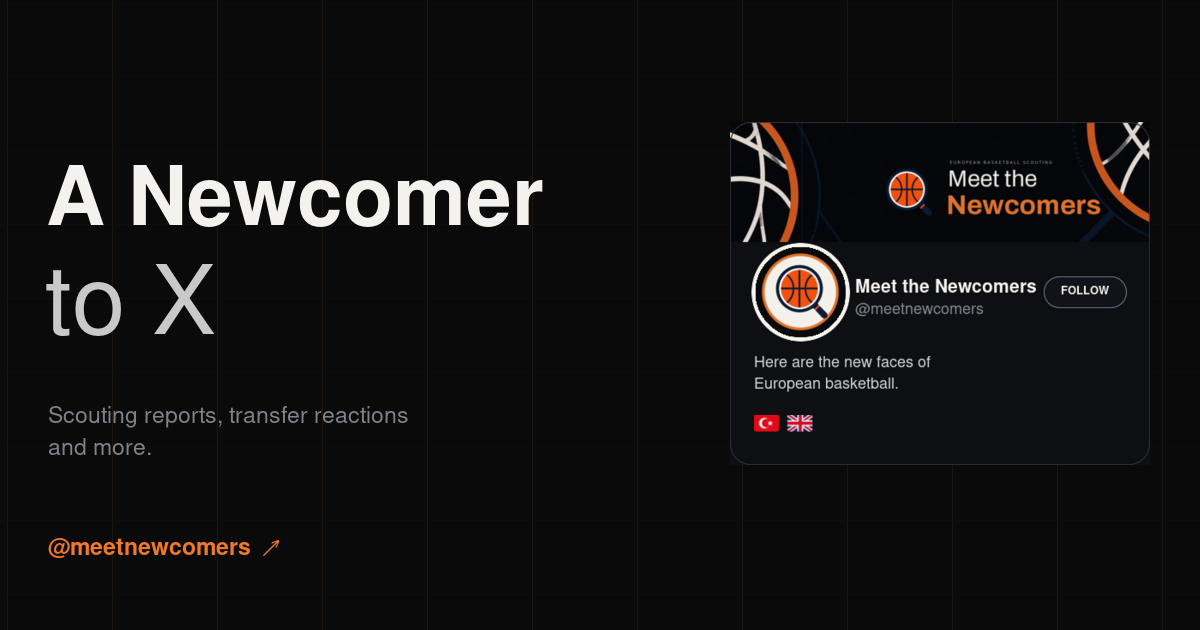
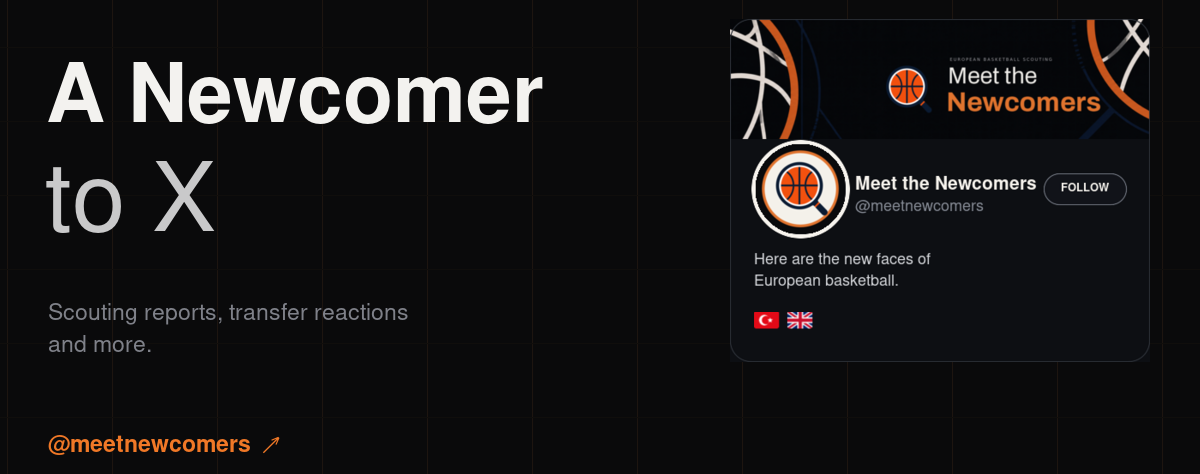
Hero spotlight: baslik slayti kendi icerigine gore yukseklik aliyor (kesilme regresyonu duzeltildi), mobilde parmakla kaydirma eklendi, gorsel slaytlarin min-height'i dusuruldu (gercek en-boy orani baskin), X promosyon gorselleri sikica kirpildi
Baslik slayti onceden paylasilan sabit kutuya bagimliydi; oyuncu OG'leri icin min-height 320->180 dusurulunce baslik metni kesiliyordu. Artik her slayt tipi (baslik vs gorsel) kendi ihtiyacina gore yukseklik hesapliyor.

diff --git a/components/HeroSpotlight.jsx b/components/HeroSpotlight.jsx
@@ -20,26 +20,8 @@ export default function HeroSpotlight({ players, children }) {
   const { league } = useLeague();
   const [step, setStep] = useState(0);
   const stageRef = useRef(null);
+  const slideRefs = useRef([]);
   const [stageHeight, setStageHeight] = useState(null);
-
-  // iOS Safari, flex öğesi içindeki CSS aspect-ratio'yu masaüstü tarayıcılardan
-  // farklı hesaplıyor ve kutu devasa büyüyüp içerik üstten/alttan kesiliyordu.
-  // Bunun yerine gerçek render genişliğini ölçüp yüksekliği JS ile piksel
-  // cinsinden sabitliyoruz — tüm tarayıcılarda garanti aynı sonucu verir.
-  useEffect(() => {
-    const el = stageRef.current;
-    if (!el) return;
-    function measure() {
-      const width = el.getBoundingClientRect().width;
-      if (!width) return;
-      const h = Math.max(320, Math.min(520, width * (630 / 1200)));
-      setStageHeight(h);
-    }
-    measure();
-    const ro = new ResizeObserver(measure);
-    ro.observe(el);
-    return () => ro.disconnect();
-  }, []);
 
   const latestPlayers = useMemo(
     () => players.filter((p) => p.lig === league).slice(0, 2),
@@ -63,19 +45,69 @@ export default function HeroSpotlight({ players, children }) {
 
   const step0 = step % slides.length;
 
+  // iOS Safari, flex öğesi içindeki CSS aspect-ratio'yu masaüstü tarayıcılardan
+  // farklı hesaplıyor ve kutu devasa büyüyüp içerik üstten/alttan kesiliyordu.
+  // Bunun yerine gerçek render genişliğini ölçüp yüksekliği JS ile piksel
+  // cinsinden sabitliyoruz — tüm tarayıcılarda garanti aynı sonucu verir.
+  // Başlık slaytı OG oranına değil kendi içeriğine göre yükseklik alır —
+  // aksi halde görsel slaytlar için düşürülen min-height, başlık metnini keser.
+  useEffect(() => {
+    function measure() {
+      const stageWidth = stageRef.current?.getBoundingClientRect().width || 0;
+      const currentType = slides[step0]?.type;
+      if (currentType === 'title') {
+        const activeEl = slideRefs.current[step0];
+        const contentHeight = activeEl ? activeEl.scrollHeight : 200;
+        setStageHeight(Math.max(contentHeight, 180));
+      } else {
+        const h = Math.max(180, Math.min(520, stageWidth * (630 / 1200)));
+        setStageHeight(h);
+      }
+    }
+    measure();
+    const ro = new ResizeObserver(measure);
+    if (stageRef.current) ro.observe(stageRef.current);
+    return () => ro.disconnect();
+  }, [step0, slides]);
+
   function go(dir) {
     setStep((s) => (s + dir + slides.length) % slides.length);
   }
 
+  const touchStartX = useRef(null);
+
+  function handleTouchStart(e) {
+    touchStartX.current = e.touches[0].clientX;
+  }
+  function handleTouchEnd(e) {
+    if (touchStartX.current === null) return;
+    const delta = e.changedTouches[0].clientX - touchStartX.current;
+    if (Math.abs(delta) > 40) {
+      go(delta < 0 ? 1 : -1);
+    }
+    touchStartX.current = null;
+  }
+
   return (
     <div className="hero__row">
-      <div className="hero__stage" ref={stageRef} style={stageHeight ? { height: stageHeight } : undefined}>
+      <div
+        className="hero__stage"
+        ref={stageRef}
+        style={stageHeight ? { height: stageHeight } : undefined}
+        onTouchStart={handleTouchStart}
+        onTouchEnd={handleTouchEnd}
+      >
         <div
           className="hero__track"
           style={{ width: `${slides.length * 100}%`, transform: `translateX(-${(100 / slides.length) * step0}%)` }}
         >
-          {slides.map((slide) => (
-            <div className="hero__slide" key={slide.key} style={{ width: `${100 / slides.length}%` }}>
+          {slides.map((slide, i) => (
+            <div
+              className="hero__slide"
+              key={slide.key}
+              ref={(el) => (slideRefs.current[i] = el)}
+              style={{ width: `${100 / slides.length}%` }}
+            >
               {slide.type === 'title' && (
                 <div className="hero__slide-default">{children}</div>
               )}
@@ -115,7 +147,12 @@ export default function HeroSpotlight({ players, children }) {
         </div>
         <div className="hero__dots">
           {slides.map((slide, i) => (
-            <span key={slide.key} className={`hero__dot${i === step0 ? ' active' : ''}`} />
+            <button
+              key={slide.key}
+              className={`hero__dot${i === step0 ? ' active' : ''}`}
+              onClick={() => setStep(i)}
+              aria-label={`slide ${i + 1}`}
+            />
           ))}
         </div>
         {/* oklar artık kutunun içinde, görselin üzerinde bir overlay — kutu genişliği

diff --git a/app/globals.css b/app/globals.css
@@ -152,14 +152,14 @@ a{color:inherit;text-decoration:none}
      içindeki CSS aspect-ratio'yu masaüstünden farklı/hatalı hesaplayıp kutuyu
      devasa büyütüyordu. Buradaki min/max-height, JS henüz çalışmadan önceki
      ilk boyama için güvenli bir görünüm sağlar. */
-  min-height:320px;max-height:520px;
+  min-height:180px;max-height:520px;
   overflow:hidden;position:relative;
 }
 .hero__track{display:flex;height:100%;transition:transform .45s cubic-bezier(.65,0,.35,1)}
 .hero__slide{flex-shrink:0;height:100%;overflow:hidden}
 /* oklar artık görselin üzerine bindirilmiş overlay; başlık metninin sol/sağ
    ucu onlarla çakışmasın diye iki taraftan da pay bırakıyoruz. */
-.hero__slide-default{width:100%;height:100%;display:flex;flex-direction:column;justify-content:center;padding:0 80px}
+.hero__slide-default{width:100%;height:100%;min-height:200px;display:flex;flex-direction:column;justify-content:center;padding:0 80px}
 .hero__ogimg-link{display:flex;align-items:center;justify-content:center;width:100%;height:100%;position:relative;padding:6px}
 /* frame, img'in gerçek (kırpılmamış, oranı korunmuş) render boyutuna shrink-wrap eder —
    böylece "profile git" butonu görselin gerçek kenarına oturur, boşlukta kalmaz. */
@@ -181,7 +181,7 @@ a{color:inherit;text-decoration:none}
   position:absolute;right:14px;bottom:14px;z-index:2;
   display:flex;gap:5px;
 }
-.hero__dot{width:6px;height:6px;border-radius:1.5px;background:rgba(255,255,255,.28)}
+.hero__dot{width:6px;height:6px;padding:0;border:none;border-radius:1.5px;background:rgba(255,255,255,.28)}
 .hero__dot.active{background:var(--court)}
 /* Oklar artık kutu genişliğini paylaşmıyor — görselin üzerine bindirilmiş bir
    overlay. Kutu, tüm genişliği görsele ayırabiliyor; oklar gerekirse görselin
@@ -211,6 +211,10 @@ a{color:inherit;text-decoration:none}
      yanındaki gezinme oklarıyla karışıyordu. */
   .hero__gobtn{padding:6px;border-radius:50%;bottom:30px}
   .hero__gobtn-text{display:none}
+}
+@media(max-width:640px){
+  .hero__arrows{display:none}
+  .hero__dot{width:8px;height:8px;cursor:pointer;background:none;border:1px solid var(--line)}
 }
 
 .rail{
